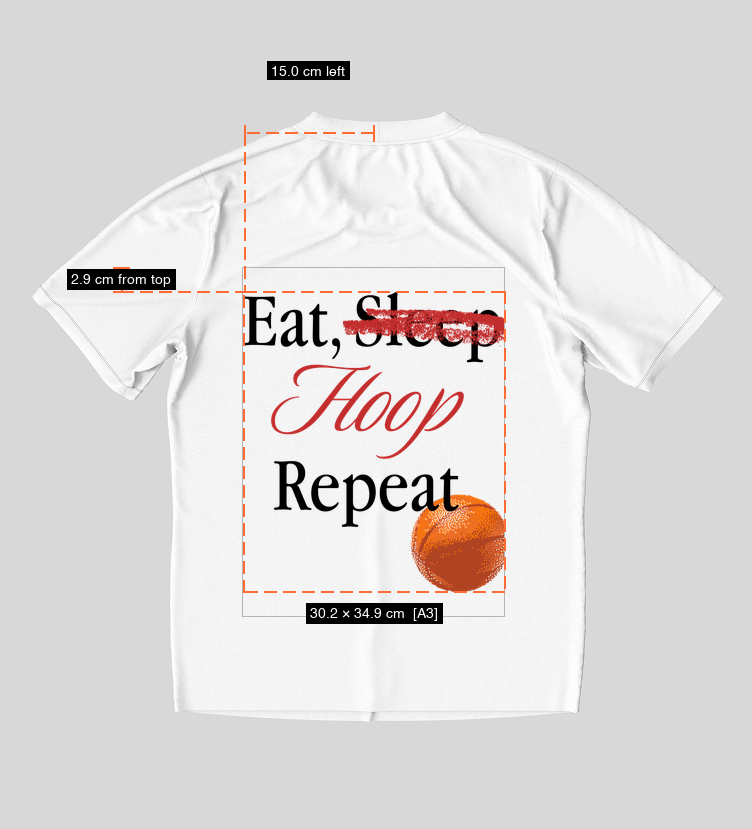
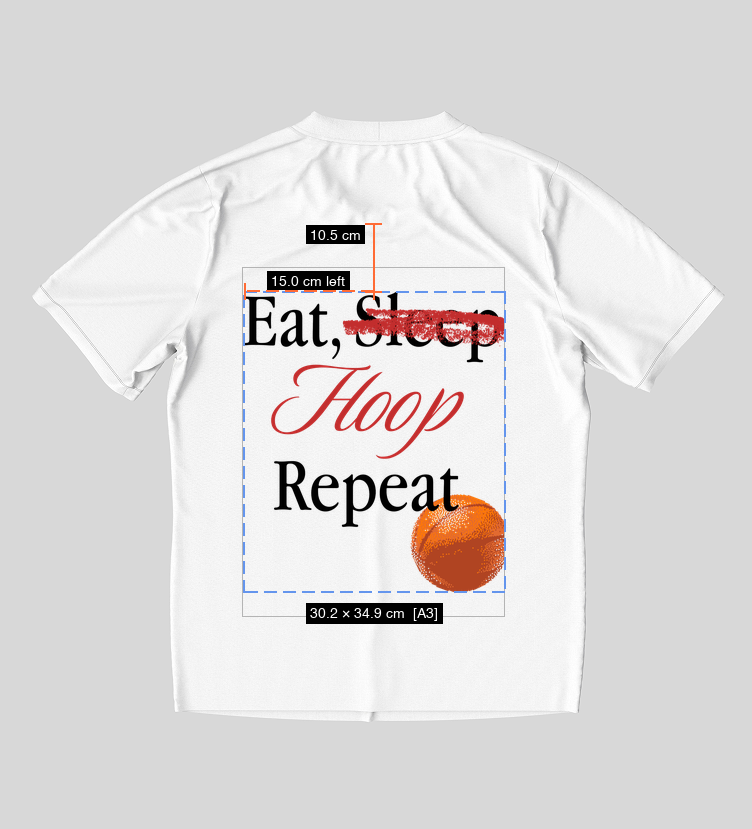
feat: Normalize text scale to font size on canvas object modification and enhance print file annotation with collar-relative measurements.

diff --git a/pimsuea-frontend/src/pages/DesignCanvas.tsx b/pimsuea-frontend/src/pages/DesignCanvas.tsx
@@ -395,8 +395,23 @@ export default function DesignCanvas() {
          }
      });
 
-     canvas.on('object:modified', () => {
+     canvas.on('object:modified', (e) => {
        clearGuides(canvas);
+
+       // Normalize text scale → fontSize so the font size display stays accurate.
+       // When the user drags a corner handle, Fabric changes scaleX/Y but keeps
+       // fontSize fixed. We bake the scale into fontSize and reset scale to 1.
+       const obj = e.target;
+       if (obj && obj.type === 'i-text') {
+         const text = obj as fabric.IText;
+         const sx = text.scaleX ?? 1;
+         const sy = text.scaleY ?? 1;
+         if (Math.abs(sx - 1) > 0.001 || Math.abs(sy - 1) > 0.001) {
+           const effectiveSize = Math.max(5, Math.round((text.fontSize ?? 30) * sx));
+           text.set({ fontSize: effectiveSize, scaleX: 1, scaleY: 1 });
+         }
+       }
+
        canvas.renderAll();
      });
   };

diff --git a/tools/annotate_print.py b/tools/annotate_print.py
@@ -23,7 +23,7 @@ import numpy as np
 from PIL import Image, ImageDraw, ImageFont
 
 # ─── CONFIG ──────────────────────────────────────────────────────────────────
-INPUT_PATH    = "/Volumes/My Passport/Personal_Project/PimSuea/tools/test_data/IBC_back_printfile.png"   # ← set this
+INPUT_PATH    = "/Volumes/My Passport/Personal_Project/PimSuea/tools/test_data/IBC_front_printfile.png"   # ← set this
 OUTPUT_PATH   = None                        # None = auto: <input>_annotated.png
 PHYSICAL_W_CM = 30.48                       # 12 inches
 PHYSICAL_H_CM = 40.64                       # 16 inches
@@ -36,18 +36,24 @@ SHIRT_COLOR = "white"   # 'white' or 'black'
 SHIRT_SIDE  = "front"   # 'front' or 'back'
 
 # Override mockup image path (None = auto: tools/mockups/<color>_<side>.png)
-MOCKUP_IMAGE_PATH = "/Volumes/My Passport/Personal_Project/PimSuea/tools/test_data/back_white_mock_template.png"
+MOCKUP_IMAGE_PATH = "/Volumes/My Passport/Personal_Project/PimSuea/tools/test_data/front_white_mock_template.png"
 
 # Mockup canvas size and print-area placement (pixels)
 _MOCKUP_W = 752
 _MOCKUP_H = 829
 _PLACEMENTS = {
     "front": {"x": 242, "y": 267, "w": 263, "h": 350},
-    "back":  {"x": 242, "y": 226, "w": 263, "h": 350},
+    "back":  {"x": 242, "y": 191, "w": 263, "h": 350},
 }
 
+# Collar positions in each mockup image (px from the top of the image)
+COLLAR_Y = {"front": 223, "back": 144}
+# Fixed real-world distance from collar to the top of the print area (3 inches)
+COLLAR_TO_PRINT_AREA_CM = 7.62
+
 # Visual style (applied at preview scale)
-ORANGE      = (255, 107, 53, 255)
+ORANGE      = (255, 107, 53, 255)   # dimension measurement lines + labels
+BLUE_MUTED  = (100, 149, 237, 220)  # element bounding box (visually behind)
 DARK_BG     = (0, 0, 0, 165)
 WHITE       = (255, 255, 255, 255)
 DASH_LEN    = 12
@@ -165,44 +171,50 @@ def composite_on_mockup(
     by0 = py_off + int(measurements["y_min"] * sy)
     bx1 = px_off + int(measurements["x_max"] * sx)
     by1 = py_off + int(measurements["y_max"] * sy)
-    cx_m = px_off + int(measurements["center_x"] * sx)
 
     try:
         font = ImageFont.truetype("/System/Library/Fonts/Helvetica.ttc", FONT_SIZE)
     except Exception:
         font = ImageFont.load_default()
 
-    # Print area border
+    # Derived positions
+    collar_x   = px_off + pw // 2          # print-area centre X = shirt centre X
+    collar_y   = measurements["collar_y"]  # top of Y arrow (collar in mockup px)
+    elem_top_y = by0                       # bottom of Y arrow / start of X arrow
+
+    # Print area border (light grey reference rect)
     draw.rectangle([px_off, py_off, px_off + pw - 1, py_off + ph - 1],
                    outline=(180, 180, 180), width=1)
 
-    # Dotted bounding box
+    # Dotted bounding box around element (blue — visually behind orange dimension lines)
     for (ax, ay, bx_, by_) in [
-        (bx0, by0, bx1, by0),
-        (bx1, by0, bx1, by1),
-        (bx1, by1, bx0, by1),
-        (bx0, by1, bx0, by0),
+        (bx0, by0, bx1, by0), (bx1, by0, bx1, by1),
+        (bx1, by1, bx0, by1), (bx0, by1, bx0, by0),
     ]:
-        draw_dashed_line(draw, ax, ay, bx_, by_, color=ORANGE)
+        draw_dashed_line(draw, ax, ay, bx_, by_, color=BLUE_MUTED)
 
-    # Y measurement — vertical line left of the placement area
-    vx = max(8, px_off // 2)
-    draw_dashed_line(draw, vx, py_off, vx, by0, color=ORANGE)
-    draw.line([(vx - TICK, py_off), (vx + TICK, py_off)], fill=ORANGE, width=LINE_W)
-    draw.line([(vx - TICK, by0),    (vx + TICK, by0)],    fill=ORANGE, width=LINE_W)
-    draw_dashed_line(draw, vx, by0, bx0, by0, color=ORANGE)
-    mid_y = (py_off + by0) // 2
-    draw_label(draw, measurements["y_label"], vx, mid_y, font)
+    # ── Y measurement: solid vertical line from collar → element top ─────────
+    draw.line([(collar_x, collar_y), (collar_x, elem_top_y)], fill=ORANGE, width=LINE_W)
+    draw.line([(collar_x - TICK, collar_y),    (collar_x + TICK, collar_y)],    fill=ORANGE, width=LINE_W)
+    draw.line([(collar_x - TICK, elem_top_y),  (collar_x + TICK, elem_top_y)],  fill=ORANGE, width=LINE_W)
+    y_total_label = f"{measurements['collar_to_elem_cm']:.1f} cm"
+    # Y label: hugs the collar tick from below, left side — always above X label
+    draw_label(draw, y_total_label, collar_x - TICK - 30, collar_y + FONT_SIZE // 2 + 4, font)
 
-    # X offset — horizontal line above the placement area
-    hy = max(8, py_off // 2)
-    draw_dashed_line(draw, cx_m, hy, bx0, hy, color=ORANGE)
-    draw.line([(cx_m, hy - TICK), (cx_m, hy + TICK)], fill=ORANGE, width=LINE_W)
-    draw.line([(bx0,  hy - TICK), (bx0,  hy + TICK)], fill=ORANGE, width=LINE_W)
-    draw_dashed_line(draw, bx0, hy, bx0, by0, color=ORANGE)
-    draw_label(draw, measurements["x_label"], (cx_m + bx0) // 2, hy // 2 + 4, font)
+    # ── X measurement: dashed horizontal line from collar_x → element left ───
+    x_dir = measurements["x_dir"]
+    if x_dir != "centered":
+        draw_dashed_line(draw, collar_x, elem_top_y, bx0, elem_top_y, color=ORANGE)
+        draw.line([(collar_x, elem_top_y - TICK), (collar_x, elem_top_y + TICK)], fill=ORANGE, width=LINE_W)
+        draw.line([(bx0,      elem_top_y - TICK), (bx0,      elem_top_y + TICK)], fill=ORANGE, width=LINE_W)
+        x_label_text = f"{measurements['x_offset_cm']:.1f} cm {x_dir}"
+        mid_h = (collar_x + bx0) // 2
+        # X label: hugs the element-top tick from above — always below Y label
+        draw_label(draw, x_label_text, mid_h, elem_top_y - FONT_SIZE // 2 - 4, font)
+    else:
+        draw_label(draw, "centered", collar_x - TICK - 30, elem_top_y - FONT_SIZE // 2 - 4, font)
 
-    # Size + tier label below the bounding box
+    # ── Size + tier label below element ──────────────────────────────────────
     draw_label(draw, measurements["size_text"], (bx0 + bx1) // 2,
                by1 + PAD + FONT_SIZE // 2, font)
 
@@ -336,6 +348,10 @@ def annotate(input_path: str, output_path: str | None = None):
         "y_label": y_label,
         "x_label": x_label,
         "size_text": size_text,
+        "collar_y": COLLAR_Y.get(SHIRT_SIDE, 223),
+        "collar_to_elem_cm": COLLAR_TO_PRINT_AREA_CM + y_cm,
+        "x_dir": x_dir,
+        "x_offset_cm": x_offset_cm,
     }
     composite_on_mockup(img_full, mockup_path, placement, mockup_out, measurements)
 
